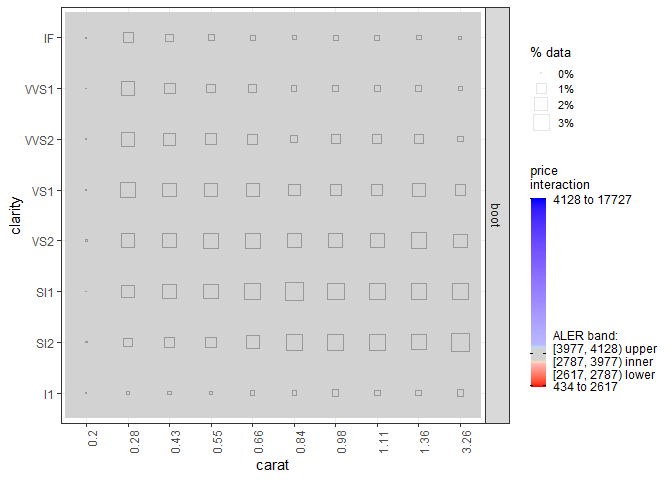
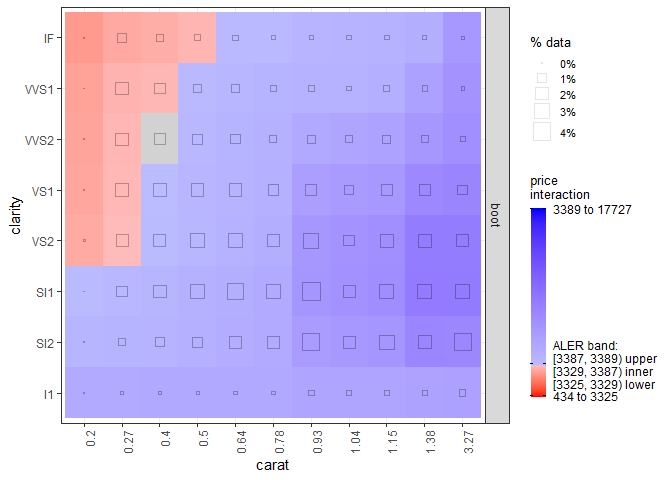
doc: convert README to qmd and replace GAM with random forest

diff --git a/README.md b/README.md
@@ -1,5 +1,6 @@
 
-<!-- README.md is generated from README.Rmd. Please edit that file -->
+
+<!-- README.md is generated from README.qmd. Please edit that file -->
 
 # ale <a href="https://tripartio.github.io/ale/"><img src="man/figures/logo.png" align="right" height="138" /></a>
 
@@ -93,8 +94,9 @@ up-to-date with the functionality.
 We will give two demonstrations of how to use the package: first, a
 simple demonstration of ALE plots, and second, a more sophisticated
 demonstration suitable for statistical inference with p-values. For both
-demonstrations, we begin by fitting a GAM model. We assume that this is
-a final deployment model that needs to be fitted to the entire dataset.
+demonstrations, we begin by fitting a random forest. We assume that this
+is a final deployment model that needs to be fitted to the entire
+dataset.
 
 ``` r
 
@@ -126,13 +128,17 @@ diamonds <- ggplot2::diamonds |>
 
 ``` r
 
-# Create a GAM model with flexible curves to predict diamond price
+# Create a random forest with flexible curves to predict diamond price
 # Smooth all numeric variables and include all other variables
 # Build the model on training data, not on the full dataset.
-gam_diamonds <- mgcv::gam(
-  price ~ s(carat) + s(depth_pct) + s(table) + s(x_length) + s(y_width) + s(z_depth) +
-    cut + color + clarity,
-  data = diamonds
+rf_diamonds <- ranger::ranger(
+  price ~ ., diamonds,  # train for IML on full dataset
+  mtry = 7,  # number of variables per tree
+  min.node.size = 4,  # minimum leaf (terminal node) size
+  sample.fraction = 0.465,  # fraction of rows to sample
+  # small forest still accurate for a large dataset; 10× faster than 500 trees
+  num.trees = 50,
+  seed = 0  # keep the random forest consistent
 )
 ```
 
@@ -152,25 +158,94 @@ library(ale)
 # For speed, these examples use retrieve_rds() to load pre-created objects 
 # from an online repository.
 # To run the code yourself, execute the code blocks directly.  
-serialized_objects_site <- "https://github.com/tripartio/ale/raw/main/download"
+serialized_objects_site <- "https://github.com/tripartio/ale/raw/wip/download"
 ```
 
 ``` r
 # Create ALE data
 # # To run the slow code yourself, uncomment and execute this code block directly.
-ale_gam_diamonds <- ALE(gam_diamonds, data = diamonds)
+# ale_rf_diamonds <- ALE(rf_diamonds, data = diamonds)
 
-ale_gam_diamonds <- serialized_objects_site |> 
-  file.path('ale_gam_diamonds.0.5.2.rds') |>
+ale_rf_diamonds <- serialized_objects_site |> 
+  file.path('ale_rf_diamonds.0.5.3.rds') |>
   url() |> 
   readRDS()
+```
 
+``` r
+# Print a statistical summary of the ALE object
+summary(ale_rf_diamonds)
+#> <ALE> object of a <ranger> model that predicts `price` (a numeric outcome) from a 39739-row by 10-column dataset.
+#> The results were not bootstrapped.
+#> 
+#> Mean ALE statistics [get(object, stats = "estimate")]:
+#> # A tibble: 9 × 9
+#>   term        aled aler_min  aler aler_max  naled naler_min naler naler_max
+#>   <chr>      <dbl>    <dbl> <dbl>    <dbl>  <dbl>     <dbl> <dbl>     <dbl>
+#> 1 carat     1333.   -1734.  5916.   4182.  14.2     -22.8   52.9     30.1  
+#> 2 cut         49.1    -80.0  146.     66.3  0.478    -0.788  1.41     0.626
+#> 3 color      588.   -1709.  2513.    804.   6.12    -22.3   29.8      7.45 
+#> 4 clarity    715.   -2866.  4400.   1534.   7.67    -47.6   62.4     14.8  
+#> 5 depth_pct   24.9   -134.   166.     31.2  0.247    -1.33   1.61     0.284
+#> 6 table       23.4   -113.   146.     32.4  0.235    -1.11   1.40     0.289
+#> 7 x_length   263.    -860.  1430.    569.   2.58     -9.65  14.9      5.21 
+#> 8 y_width   1472.   -1573.  8629.   7056.  14.5     -20.0   58.5     38.4  
+#> 9 z_depth    370.    -441.  1903.   1462.   3.58     -4.39  18.5     14.2  
+#> 
+#> ALE statistic distributions (no p-values requested) [get(object, stats = c("aled", "aler", "naled", "naler"))]:
+#> # A tibble: 36 × 7
+#>    statistic term      estimate conf.low     mean   median conf.high
+#>    <ord>     <chr>        <dbl>    <dbl>    <dbl>    <dbl>     <dbl>
+#>  1 aled      carat     1333.    1333.    1333.    1333.     1333.   
+#>  2 aled      cut         49.1     49.1     49.1     49.1      49.1  
+#>  3 aled      color      588.     588.     588.     588.      588.   
+#>  4 aled      clarity    715.     715.     715.     715.      715.   
+#>  5 aled      depth_pct   24.9     24.9     24.9     24.9      24.9  
+#>  6 aled      table       23.4     23.4     23.4     23.4      23.4  
+#>  7 aled      x_length   263.     263.     263.     263.      263.   
+#>  8 aled      y_width   1472.    1472.    1472.    1472.     1472.   
+#>  9 aled      z_depth    370.     370.     370.     370.      370.   
+#> 10 aler      carat     5916.    5916.    5916.    5916.     5916.   
+#> 11 aler      cut        146.     146.     146.     146.      146.   
+#> 12 aler      color     2513.    2513.    2513.    2513.     2513.   
+#> 13 aler      clarity   4400.    4400.    4400.    4400.     4400.   
+#> 14 aler      depth_pct  166.     166.     166.     166.      166.   
+#> 15 aler      table      146.     146.     146.     146.      146.   
+#> 16 aler      x_length  1430.    1430.    1430.    1430.     1430.   
+#> 17 aler      y_width   8629.    8629.    8629.    8629.     8629.   
+#> 18 aler      z_depth   1903.    1903.    1903.    1903.     1903.   
+#> 19 naled     carat       14.2     14.2     14.2     14.2      14.2  
+#> 20 naled     cut          0.478    0.478    0.478    0.478     0.478
+#> 21 naled     color        6.12     6.12     6.12     6.12      6.12 
+#> 22 naled     clarity      7.67     7.67     7.67     7.67      7.67 
+#> 23 naled     depth_pct    0.247    0.247    0.247    0.247     0.247
+#> 24 naled     table        0.235    0.235    0.235    0.235     0.235
+#> 25 naled     x_length     2.58     2.58     2.58     2.58      2.58 
+#> 26 naled     y_width     14.5     14.5     14.5     14.5      14.5  
+#> 27 naled     z_depth      3.58     3.58     3.58     3.58      3.58 
+#> 28 naler     carat       52.9     52.9     52.9     52.9      52.9  
+#> 29 naler     cut          1.41     1.41     1.41     1.41      1.41 
+#> 30 naler     color       29.8     29.8     29.8     29.8      29.8  
+#> 31 naler     clarity     62.4     62.4     62.4     62.4      62.4  
+#> 32 naler     depth_pct    1.61     1.61     1.61     1.61      1.61 
+#> 33 naler     table        1.40     1.40     1.40     1.40      1.40 
+#> 34 naler     x_length    14.9     14.9     14.9     14.9      14.9  
+#> 35 naler     y_width     58.5     58.5     58.5     58.5      58.5  
+#> 36 naler     z_depth     18.5     18.5     18.5     18.5      18.5  
+#> 
+#> Statistically significant confidence regions [get(object, stats = "conf_sig")]:
+#> ! Confidence regions are meaningless without p-values.
+#> ℹ The ALE statistics were calculated without p-values.
+#> # A tibble: 0 × 0
+```
+
+``` r
 # Plot the ALE data
-plot(ale_gam_diamonds) |> 
+plot(ale_rf_diamonds) |> 
   print(ncol = 2)
 ```
 
-<img src="man/figures/README-simple-ale-rds-1.png" alt="" width="100%" />
+<img src="man/figures/README-plot-ale-rf-1.png" style="width:100.0%" />
 
 For an explanation of these basic features, see the [introductory
 vignette](https://tripartio.github.io/ale/articles/ale-intro.html).
@@ -192,14 +267,14 @@ statistics can be properly distinguished from random effects.
 
 # # Rather slow because it retrains the model 100 times.
 # # To run the slow code yourself, uncomment and execute this code block directly.
-# p_dist_gam_diamonds_readme <- ALEpDist(
-#   gam_diamonds, diamonds,
+# p_dist_rf_diamonds_readme <- ALEpDist(
+#   rf_diamonds, diamonds,
 #   # Normally should be default 1000, but just 100 for a quicker demo.
 #   rand_it = 100
 # )
 
-p_dist_gam_diamonds_readme <- serialized_objects_site |> 
-  file.path('p_dist_gam_diamonds_readme.0.5.2.rds') |>
+p_dist_rf_diamonds_readme <- serialized_objects_site |> 
+  file.path('p_dist_rf_diamonds_readme.0.5.3.rds') |>
   url() |> 
   readRDS()
 ```
@@ -211,25 +286,25 @@ in the plots of bootstrapped ALE with p-values:
 # Create ALE data with p-values
 
 # # To run the slow code yourself, uncomment and execute this code block directly.
-# ale_gam_diamonds_stats_readme <- ALE(
-#   gam_diamonds,
+# ale_rf_diamonds_stats_readme <- ALE(
+#   rf_diamonds,
 #   # generate ALE for all 1D variables and the carat:clarity 2D interaction
 #   x_cols = list(d1 = TRUE, d2 = 'carat:clarity'),
 #   data = diamonds,
-#   p_values = p_dist_gam_diamonds_readme,
+#   p_values = p_dist_rf_diamonds_readme,
 #   # Usually at least 100 bootstrap iterations, but just 10 here for a faster demo
 #   boot_it = 10
 # )
 
-ale_gam_diamonds_stats_readme <- serialized_objects_site |> 
-  file.path('ale_gam_diamonds_stats_readme.0.5.2.rds') |>
+ale_rf_diamonds_stats_readme <- serialized_objects_site |> 
+  file.path('ale_rf_diamonds_stats_readme.0.5.3.rds') |>
   url() |> 
   readRDS()
 ```
 
 ``` r
 # Create an ALEPlots object for fine-tuned plotting
-ale_plots <- plot(ale_gam_diamonds_stats_readme)
+ale_plots <- plot(ale_rf_diamonds_stats_readme)
 
 # Plot 1D ALE plots 
 ale_plots |> 
@@ -240,7 +315,7 @@ ale_plots |>
   print(ncol = 2)
 ```
 
-<img src="man/figures/README-ale-1D-plot-1.png" alt="" width="100%" />
+<img src="man/figures/README-ale-1D-plot-1.png" style="width:100.0%" />
 
 ``` r
 # Plot a selected 2D plot
@@ -249,7 +324,7 @@ ale_plots |>
   get('carat:clarity') 
 ```
 
-<img src="man/figures/README-2D-plot-1.png" alt="" width="100%" />
+<img src="man/figures/README-2D-plot-1.png" style="width:100.0%" />
 
 For a detailed explanation of how to interpret these plots, see the
 vignette on [ALE-based statistics for statistical inference and effect
@@ -301,4 +376,4 @@ Science 2024. Seattle
 Okoli, Chitu (\[year of package version used\]). “ale: Interpretable
 Machine Learning and Statistical Inference with Accumulated Local
 Effects (ALE)”. R software package version \[enter version number\].
-<https://CRAN.R-project.org/package=ale>.
+https://CRAN.R-project.org/package=ale.
